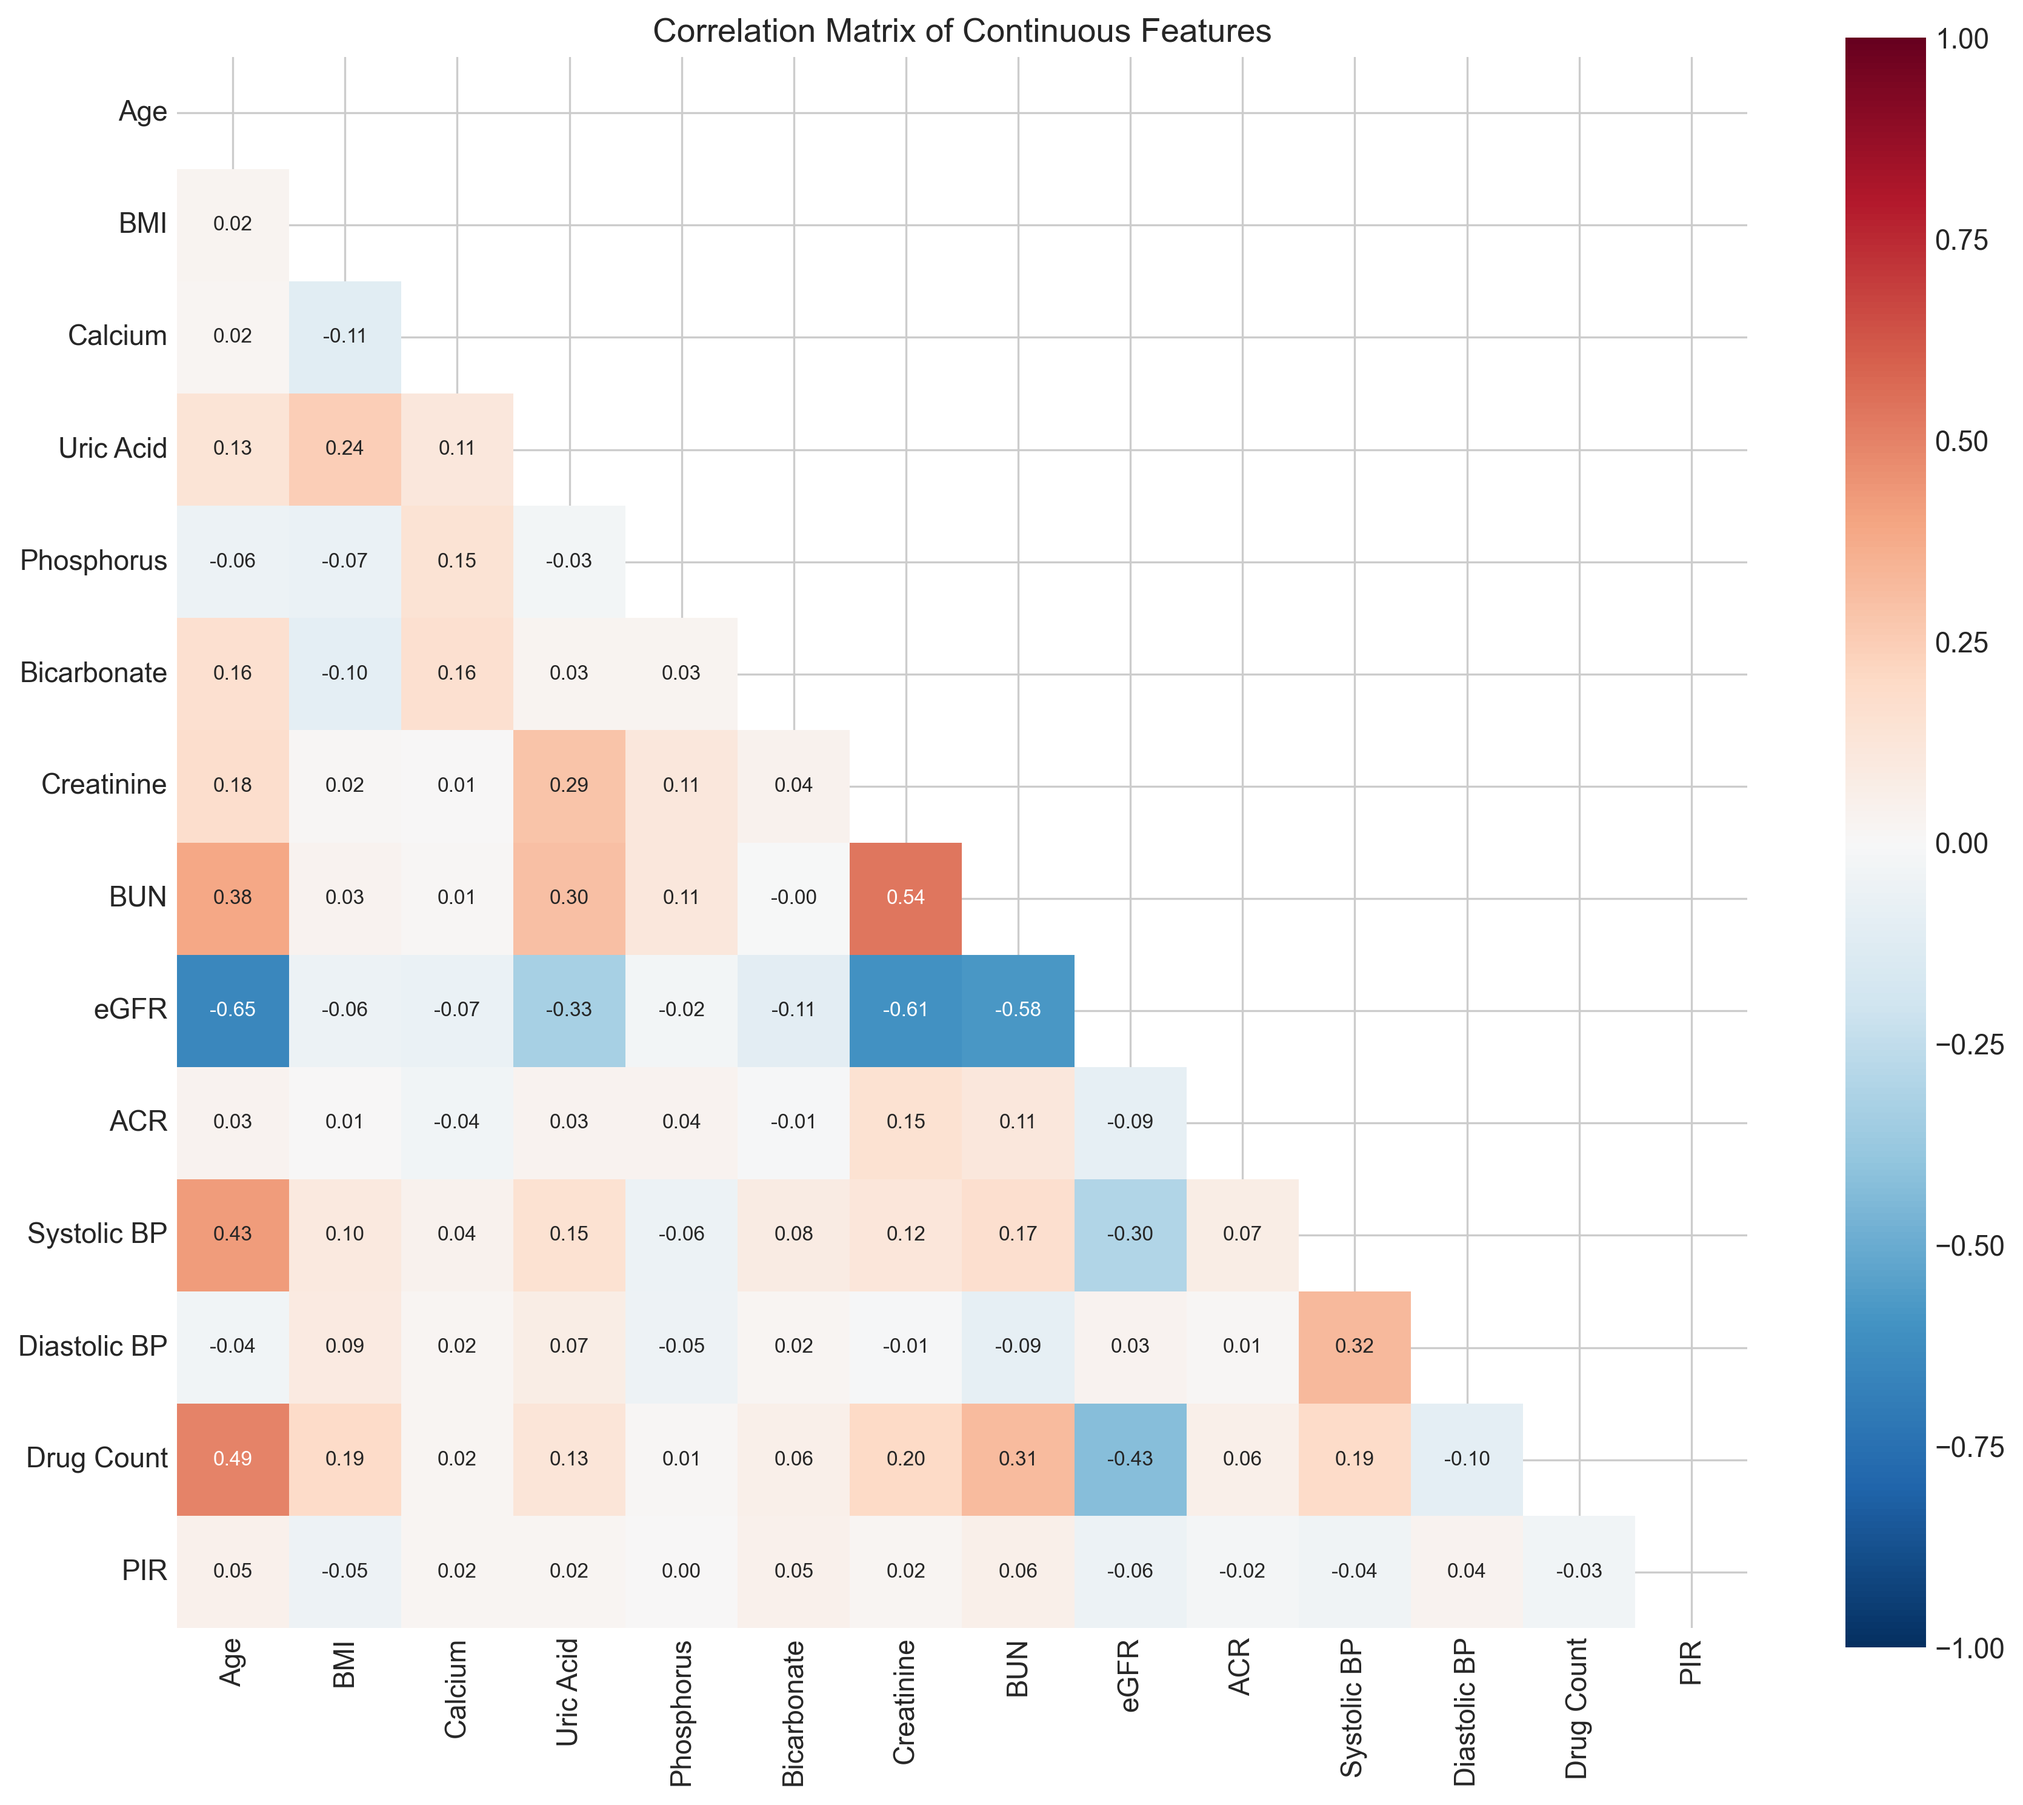
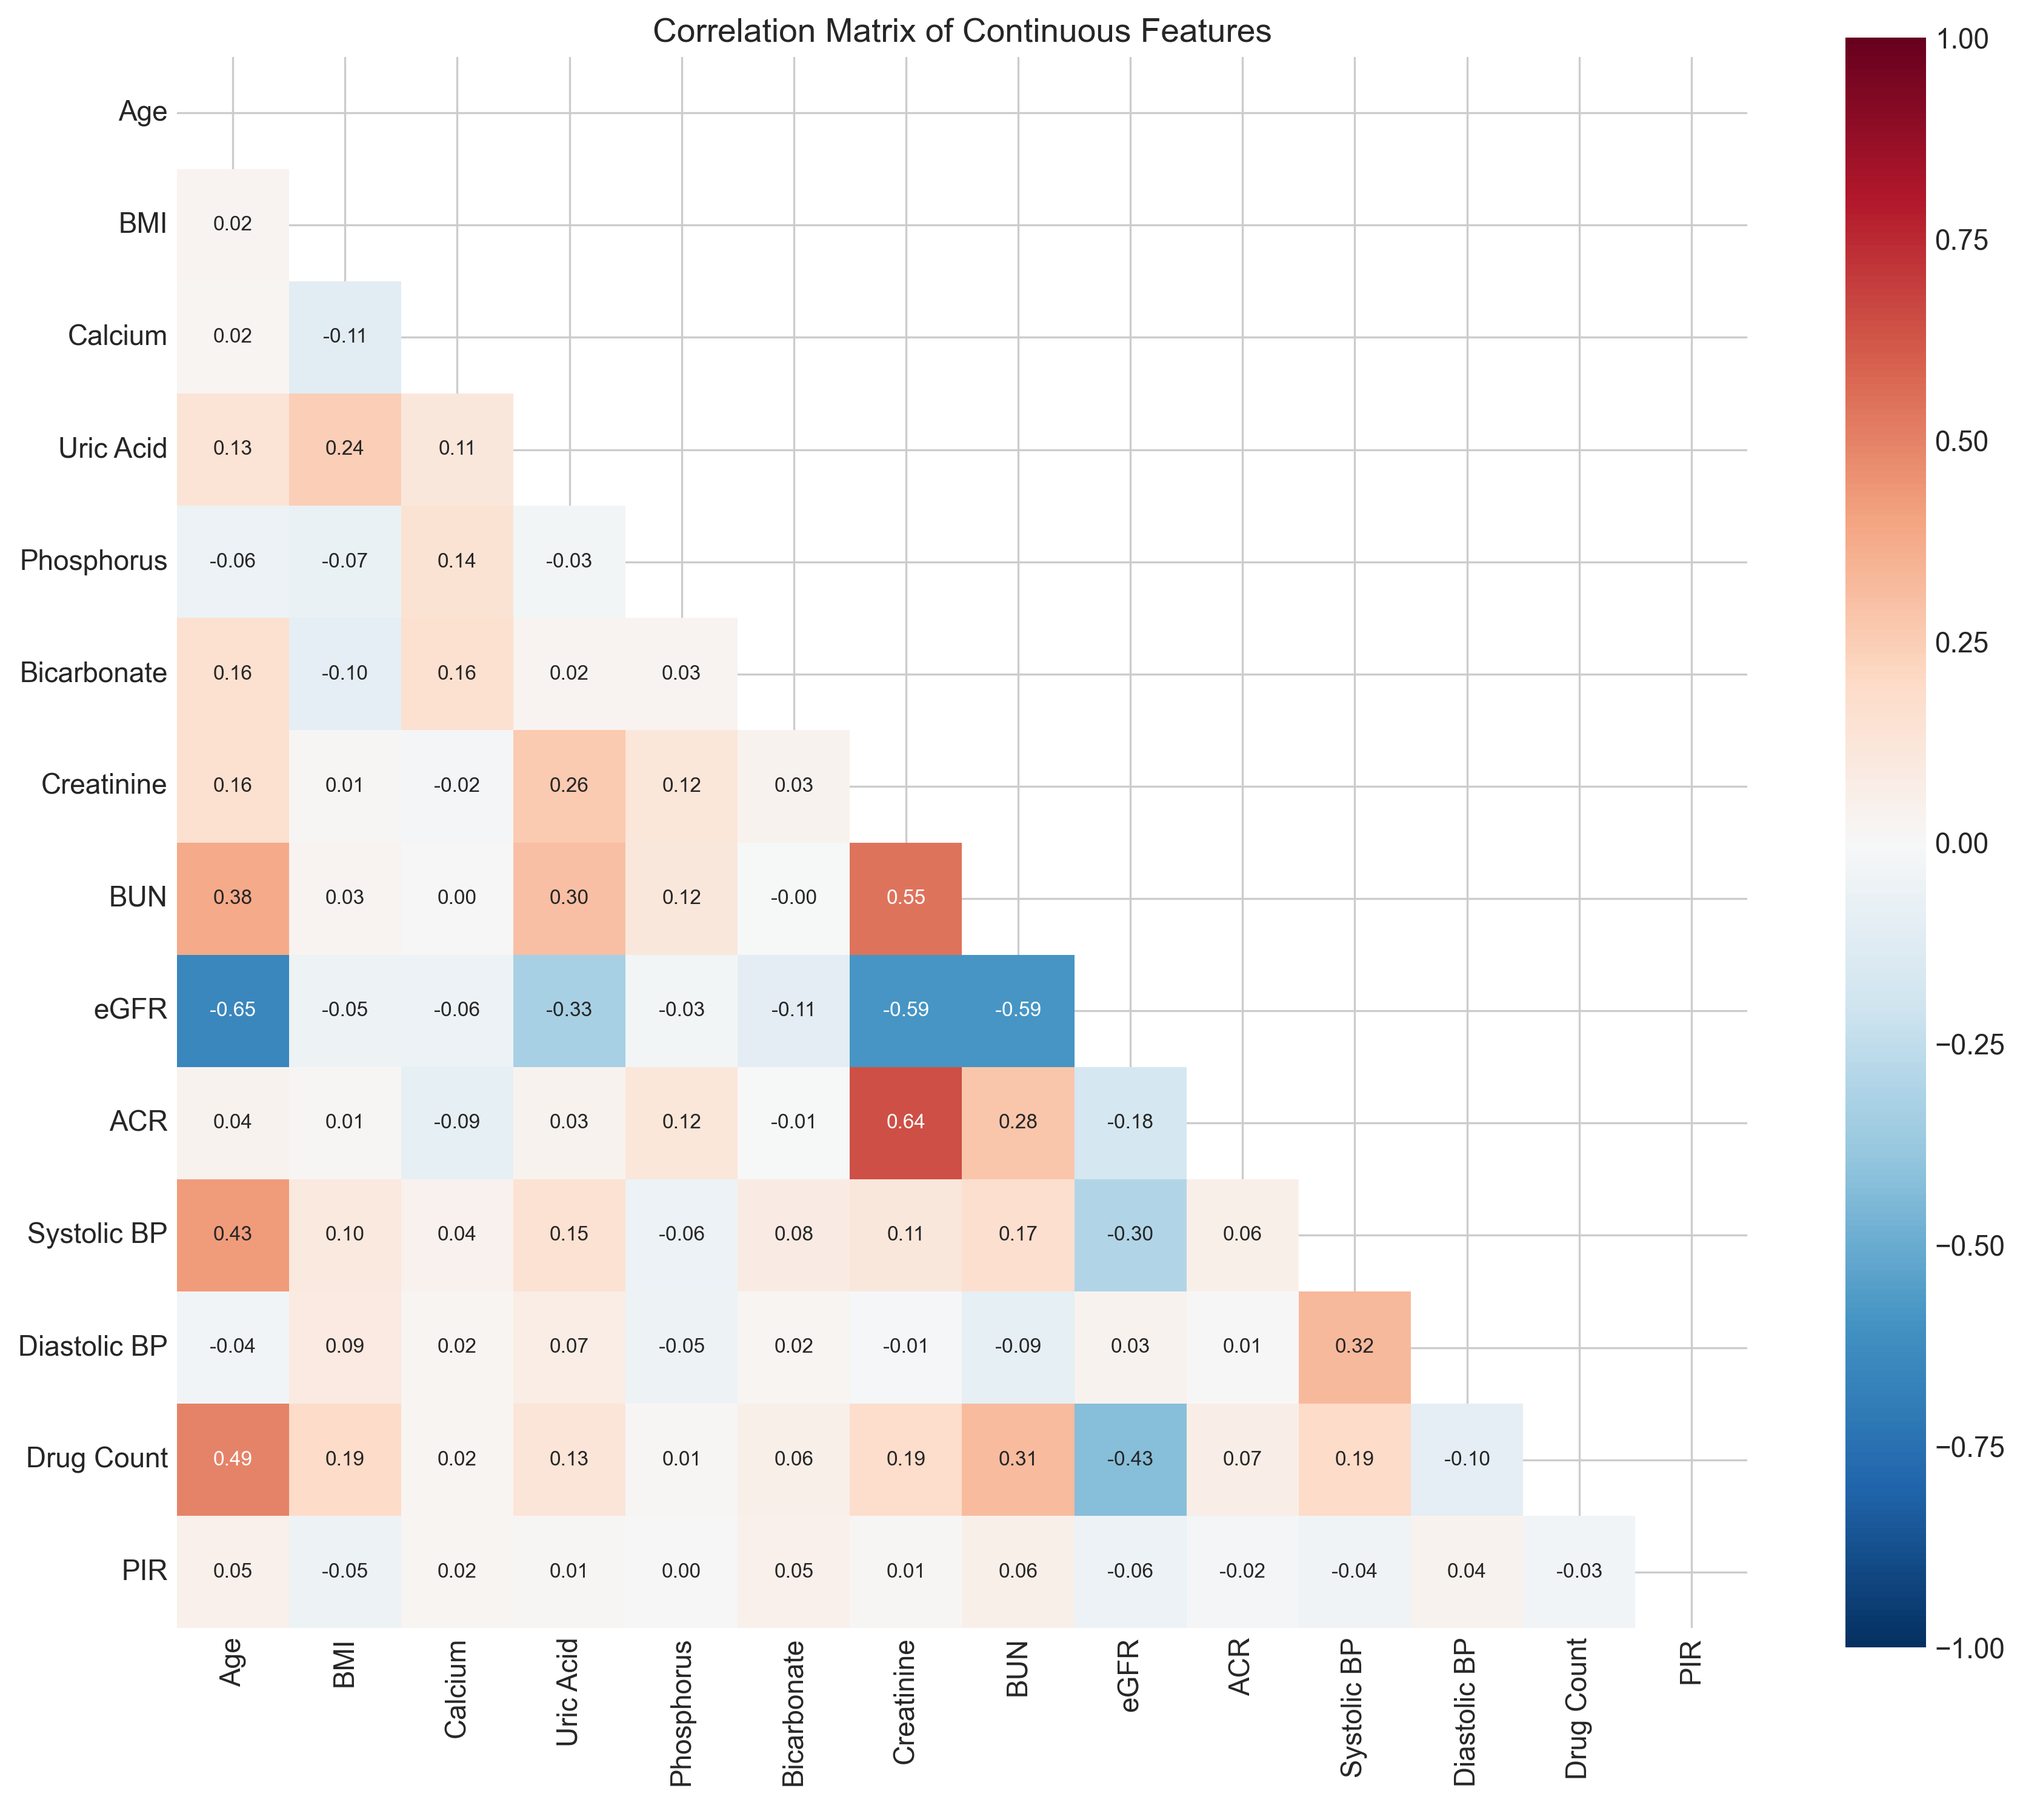
Fix: Refresh README and EDA outputs

Changed region(s): [[0.405, 0.5936, 0.5297, 0.656]]

diff --git a/03_eda.py b/03_eda.py
@@ -6,6 +6,7 @@ import matplotlib.pyplot as plt
 import seaborn as sns
 from scipy import stats
 from config import *
+from drug_classes import DRUG_CLASS_MAP
 
 plt.style.use("seaborn-v0_8-whitegrid")
 plt.rcParams.update({"font.size": 11, "figure.dpi": 150})
@@ -78,7 +79,7 @@ def table1(df):
 
 
 def drug_prevalence_table(df):
-    drug_cols = [c for c in df.columns if c.startswith("drug_") and c != "drug_count"]
+    drug_cols = [f"drug_{cls}" for cls in DRUG_CLASS_MAP if f"drug_{cls}" in df.columns]
     rows = []
     for col in drug_cols:
         cls_name = col.replace("drug_", "")

diff --git a/README.md b/README.md
@@ -7,7 +7,7 @@ We use NHANES 2007-2018 data to estimate drug-class effects on kidney stone hist
 - **Source**: [NHANES](https://wwwn.cdc.gov/nchs/nhanes/Default.aspx) (National Health and Nutrition Examination Survey), cycles 2007-2018
 - **Sample**: 34,679 adults (20+) with valid kidney stone questionnaire responses
 - **Outcome**: Self-reported lifetime kidney stone history as of the NHANES interview (KIQ026) — 3,234 cases (9.3%)
-- **Features**: 95 selected features (from 175 engineered) including demographics, serum chemistry, urine labs, dietary intake, comorbidities, lifestyle, 20 drug class indicators, and clinical interaction terms
+- **Features**: 226 processed columns after feature engineering, missingness indicators, 20 current drug class indicators, and drug-duration sensitivity indicators; the causal model uses demographics, labs, comorbidities, lifestyle, and other drug class indicators as confounders
 
 ## Target-Trial-Style Estimand
 
@@ -35,15 +35,15 @@ We use NHANES 2007-2018 data to estimate drug-class effects on kidney stone hist
 | SMQ | Smoking | Smoking status |
 | SLQ | Sleep | Sleep hours |
 | PAQ | Physical Activity | Vigorous/moderate activity |
-| DR1TOT | Dietary Intake (Day 1) | Energy, protein, sodium, potassium, calcium, magnesium, vitamin C, water, fiber, sugars |
+| DR1TOT | Dietary Intake (Day 1) | Optional dietary intake component; preprocessing tolerates missing DR1TOT files |
 
 ## Pipeline
 
 ```
-01_download_data.py  →  Download/copy 98 NHANES XPT files (incl. dietary intake)
+01_download_data.py  →  Download/copy NHANES XPT files; current checkout has 78 raw XPT files
 02_preprocess.py     →  Merge, clean, feature engineer, MICE imputation → analysis_ready.parquet
 03_eda.py            →  Descriptive stats, correlation matrix, plots
-04_causal_analysis.py →  AIPW causal effects, subgroup CATEs, forest plot
+04_causal_analysis.py →  AIPW effects, E-values, balance diagnostics, duration sensitivity
 05_prediction.py     →  Optional supplementary prediction benchmark
 06_results.py        →  Causal executive summary, diagnostics, final figure panel
 ```
@@ -62,7 +62,7 @@ python 01_download_data.py
 python 02_preprocess.py
 python 03_eda.py
 python 04_causal_analysis.py
-python 05_prediction.py
+python 05_prediction.py  # optional supplementary prediction benchmark
 python 06_results.py
 ```
 
@@ -87,6 +87,20 @@ python 06_results.py
 | Loop diuretics | 1,303 | -1.7% | [-2.6%, -0.8%] | Yes | 1.73 |
 | Statins | 6,695 | -1.8% | [-2.9%, -0.7%] | Yes | 1.78 |
 
+### Causal Diagnostics
+
+![Main Panel](outputs/figures/main_figure_panel.png)
+
+Key diagnostic tables:
+
+- `outputs/tables/ate_summary.csv` — AIPW ATEs, confidence intervals, FDR correction, E-values, and max SMDs
+- `outputs/tables/covariate_balance.csv` — before/after IPW standardized mean differences
+- `outputs/tables/causal_diagnostics_summary.csv` — compact ATE/E-value/balance summary
+- `outputs/tables/ate_duration_sensitivity.csv` — `RXDDAYS >= 365` and `RXDDAYS >= 730` sensitivity results
+- `outputs/tables/causal_feature_importance.csv` — nuisance-model feature importance for causal interpretation
+
+Balance improved after IPW for many classes, but several maximum post-IPW SMDs remain high, especially loop diuretics, potassium-sparing diuretics, gout drugs, thiazides, and metformin. These estimates should therefore be interpreted as adjusted causal estimates under assumptions, not definitive causal proof.
+
 ### Crude Drug Class Stone Rates
 
 ![Drug Class Stone Rates](outputs/figures/drug_class_stone_rates.png)
@@ -95,7 +109,20 @@ python 06_results.py
 
 Prediction is not the primary experiment; it is retained only as a secondary benchmark because the causal nuisance models already perform prediction inside AIPW.
 
+| Model | ROC-AUC | PR-AUC | Precision | Recall | F1 |
+|---|---:|---:|---:|---:|---:|
+| XGBoost | 0.644 | 0.162 | 0.176 | 0.323 | 0.228 |
+| Logistic Regression | 0.642 | 0.162 | — | — | — |
+
 The optional `05_prediction.py` script can still generate ROC/PR and SHAP artifacts, but these are not part of the primary causal estimand. Main interpretability now comes from `outputs/tables/causal_feature_importance.csv`, which summarizes the nuisance models used inside AIPW.
+
+Supplementary prediction plots:
+
+![ROC Curve](outputs/figures/roc_curve.png)
+
+![PR Curve](outputs/figures/pr_curve.png)
+
+![Calibration](outputs/figures/calibration_plot.png)
 
 ### Feature Distributions by Stone Status
 
@@ -108,18 +135,6 @@ The optional `05_prediction.py` script can still generate ROC/PR and SHAP artifa
 ### Polypharmacy and Stone Risk
 
 ![Polypharmacy](outputs/figures/stone_rate_by_drug_count.png)
-
-### Precision-Recall Curve
-
-![PR Curve](outputs/figures/pr_curve.png)
-
-### Calibration Plot
-
-![Calibration](outputs/figures/calibration_plot.png)
-
-### Main Figure Panel
-
-![Main Panel](outputs/figures/main_figure_panel.png)
 
 ## Key Findings
 
@@ -153,7 +168,7 @@ ML4H/
 ├── 06_results.py              # Causal results compilation
 ├── requirements.txt
 ├── data/
-│   ├── raw/                   # 98 NHANES XPT files
+│   ├── raw/                   # 78 tracked NHANES XPT files; DR1TOT is optional
 │   └── processed/             # analysis_ready.parquet
 └── outputs/
     ├── figures/               # All plots
